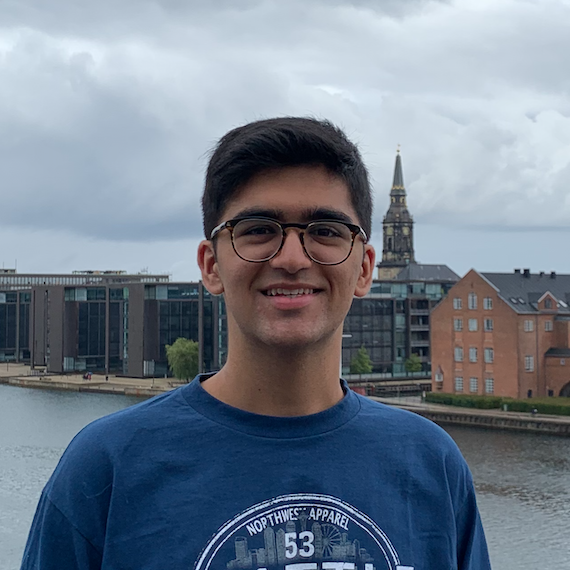
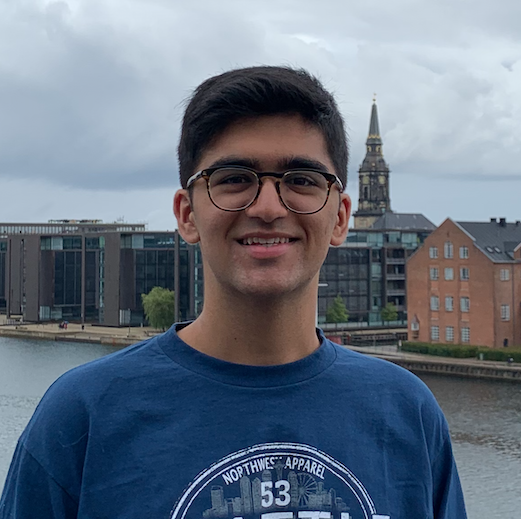
added image

diff --git a/index.html b/index.html
@@ -5,10 +5,21 @@
 			body{
 				text-align: center;
 				min-width: 200px;
+				margin-top: 50px;
+				background-color: #151515;
+				color: #d3d3d3;
+				font-family: "Helvetica";
+			}
+			img{
+				width: 280px;
+				height: 280px;
+				border: 7px solid #d3d3d3;
+				border-radius: 5px;
 			}
 		</style>
 	</head>
 	<body>
+		<img src="pfp.png"></img>
 		<h1>Ishil Puri</h1>
 	</body>
 </html>
